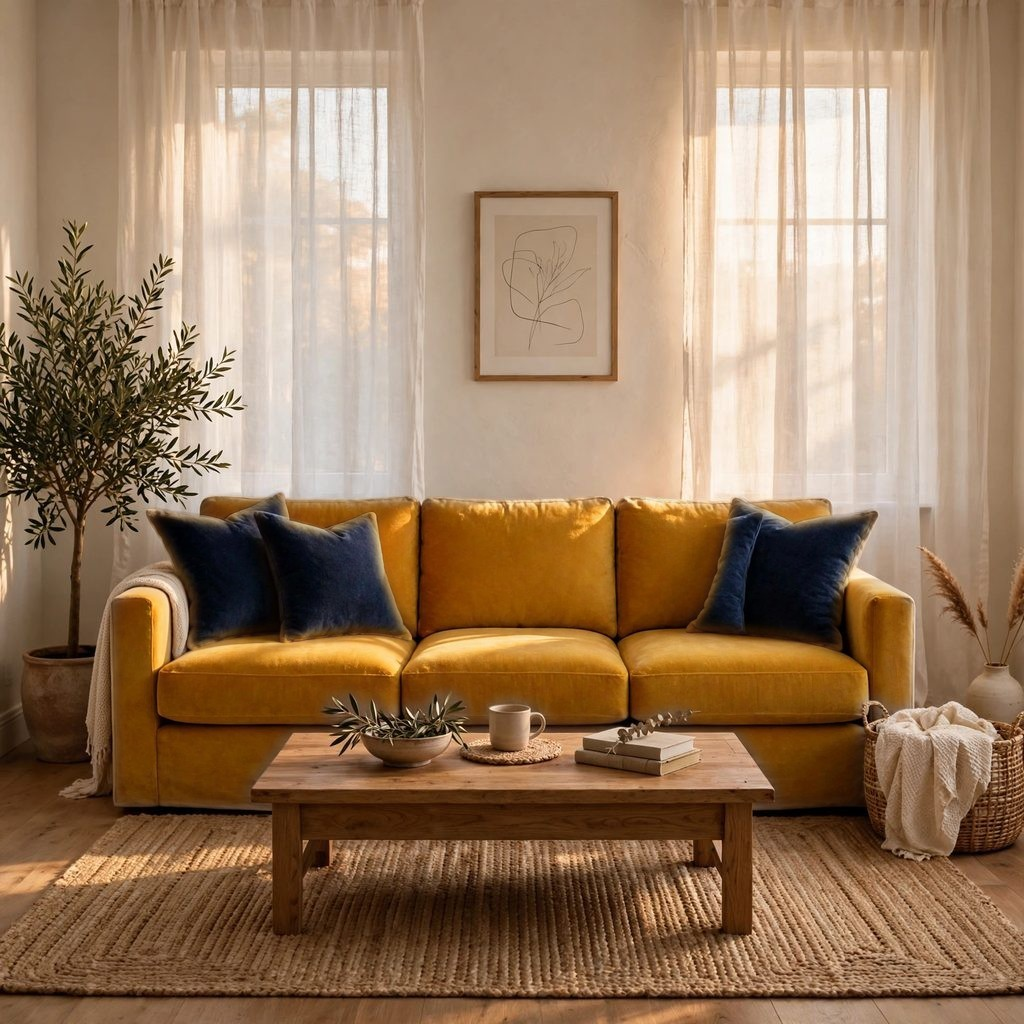
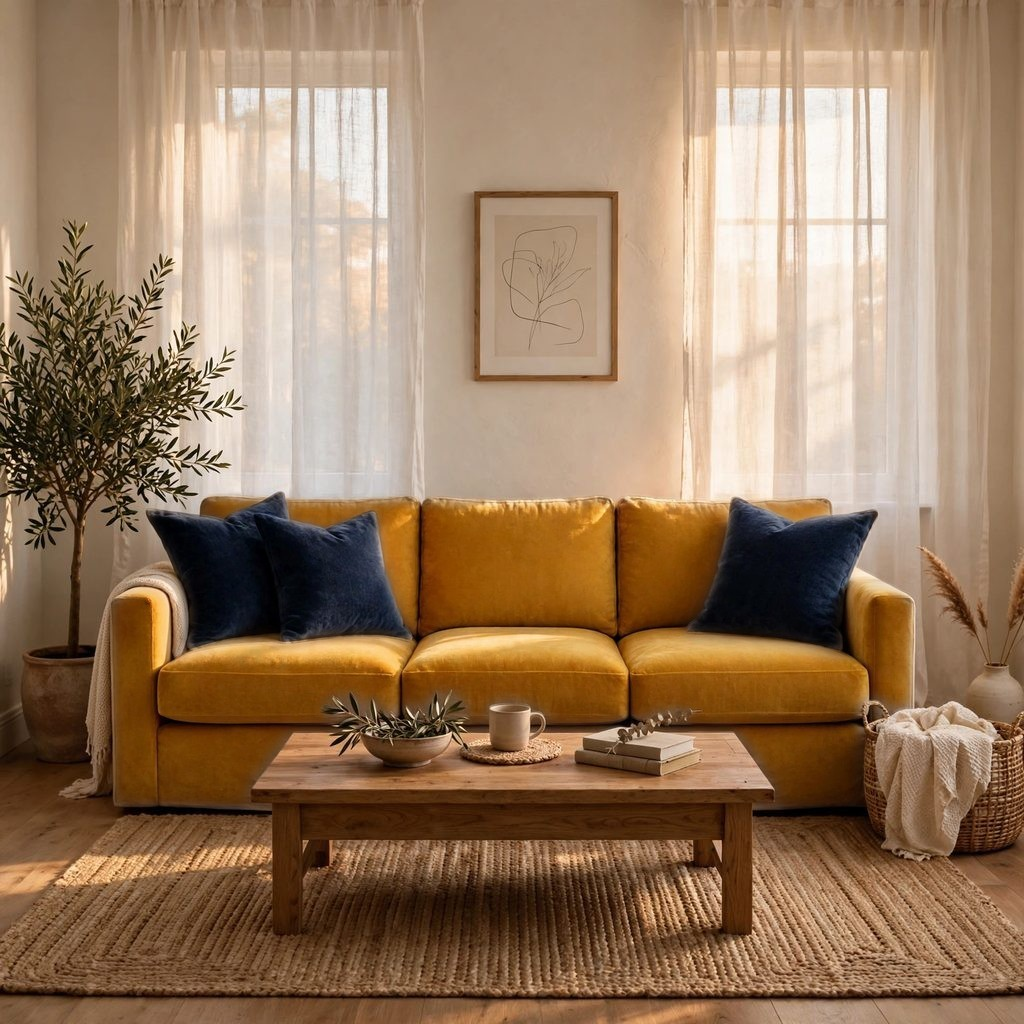
Chained sofa + pillows: the sofa stage keeps the throw pillows out of its mask so they segment cleanly on the sofa result (no ghost second pillow); regenerate warm and calm heroes

diff --git a/app/services/swap.py b/app/services/swap.py
@@ -660,9 +660,12 @@ def sofa_full_mask(seg_bytes, size, key, timeout, keep_pillows=True):
     swap left them in the old fabric. The bare "cushions" concept
     segments every cushion (seat, back and throw pillows); the union is
     the upholstered sofa. With keep_pillows the throw pillows are cut
-    back out so a sofa-only swap leaves them alone; a chained sofa +
-    pillows swap keeps them in (the pillow layer lands on top and any
-    gap behind a narrower new pillow shows the new sofa fabric).
+    back out so the sofa swap leaves them alone. A chained sofa +
+    pillows swap keeps them out too: on a sofa result that repainted
+    the pillows in the sofa fabric SAM cannot tell a pillow from the
+    back cushion behind it, and the pillow mask swallows the cushion
+    corner (a ghost second pillow). The old pillow's fringe is covered
+    by dilating the pillow mask a little before the pillow edit.
     """
     from concurrent.futures import ThreadPoolExecutor
     concepts = [TARGET_CONCEPTS["sofa"], SOFA_CUSHIONS_CONCEPT,
@@ -822,7 +825,8 @@ def swap_multi(room_path, assignments, api_key=None, out_dir=None,
         if chained and job["target"] == "cushions":
             job["ctag"] = "%s-on-%s" % (rtag, by_target["sofa"]["code"])
         elif chained and job["target"] == "sofa":
-            job["ctag"] = "%s-under-pillows" % rtag
+            # v2: the sofa stage keeps the pillows out of its mask.
+            job["ctag"] = "%s-under-pillows2" % rtag
     for job in jobs:
         img_path, mask_path, meta_path = _cache_paths(
             out_dir, job["ctag"], job["target"], job["code"])
@@ -884,9 +888,14 @@ def swap_multi(room_path, assignments, api_key=None, out_dir=None,
             try:
                 step("segment")
                 if target == "sofa":
+                    # Always leave the throw pillows out, chained or
+                    # not: a sofa result that repaints the pillows in the
+                    # sofa fabric gives SAM nothing to separate them from
+                    # the back cushions, and the pillow mask then swallows
+                    # a cushion corner (the ghost second pillow).
                     records, mask = sofa_full_mask(
                         seg_bytes, (width, height), key, call_timeout(),
-                        keep_pillows=not job.get("chained"))
+                        keep_pillows=True)
                 else:
                     records = segment(seg_bytes, concept, key,
                                       timeout=call_timeout())
@@ -911,6 +920,11 @@ def swap_multi(room_path, assignments, api_key=None, out_dir=None,
                         except (SwapError, sam_codec.MaskError):
                             mask2 = None
                         if mask2 is not None and mask2.getbbox():
+                            # The old pillow keeps its photo pixels on the
+                            # sofa result; a little dilation lets the edit
+                            # cover its fringe too.
+                            k = max(3, int(max(width, height) * 0.008) | 1)
+                            mask2 = mask2.filter(ImageFilter.MaxFilter(k))
                             records, mask = rec2, mask2
                 if job.get("sofa_mask") is not None:
                     union_mask = ImageChops.lighter(job["sofa_mask"], mask)

diff --git a/tests/test_swap_multi.py b/tests/test_swap_multi.py
@@ -465,8 +465,12 @@ def test_chained_pillows_edit_on_sofa_result_and_land_on_top(tmp_path,
     assert seen["edit_inputs"][pillow_concept] != original
     sofa_result = Image.open(io.BytesIO(seen["edit_inputs"][pillow_concept]))
     assert sofa_result.getpixel((50, 40))[0] < 90, "sofa already recoloured"
-    # Residue search for the pillows spans sofa ∪ pillow.
-    assert seen["residue_masks"][pillow_box] == sofa_box
+    # Residue search for the pillows spans sofa ∪ pillow (the pillow
+    # mask is dilated a little, so match the key by containment).
+    pillow_keys = [k for k in seen["residue_masks"]
+                   if k != sofa_box and k[0] <= pillow_box[0]
+                   and k[2] >= pillow_box[2]]
+    assert pillow_keys and seen["residue_masks"][pillow_keys[0]] == sofa_box
     final = Image.open(os.path.join(os.getcwd(), res["final_url"]))
     assert final.getpixel((20, 20))[0] > 150, "pillow on top"
     assert final.getpixel((50, 40))[0] < 90, "sofa fabric around it"

diff --git a/tests/test_swap_checks.py b/tests/test_swap_checks.py
@@ -165,9 +165,14 @@ def test_single_swap_passes_when_colour_matches(tmp_path, room,
 def test_multi_colour_fail_is_honest_skip(tmp_path, room, monkeypatch):
     mean_rgb, _ = swatch_mean("FA-AC-01")
     monkeypatch.setattr(s, "require_api_key", lambda: "k")
-    monkeypatch.setattr(s, "segment", lambda *a, **k: [
-        {"box": (8, 8, 40, 40), "frame_size": (64, 48)}])
+
+    rec = [{"box": (8, 8, 40, 40), "frame_size": (64, 48)}]
+    monkeypatch.setattr(s, "segment", lambda *a, **k: list(rec))
     monkeypatch.setattr(s, "sam_mask", lambda records, size: box_mask(size))
+    # The sofa stage would cut the (same-box) pillows out of its mask;
+    # fake it so the sofa keeps the box and the pillow job is judged.
+    monkeypatch.setattr(s, "sofa_full_mask",
+                        lambda *a, **k: (list(rec), box_mask((64, 48))))
 
     def fake_edit(room_bytes, swatch_bytes, fabric, concept, key=None,
                   corrective=None, timeout=300):
